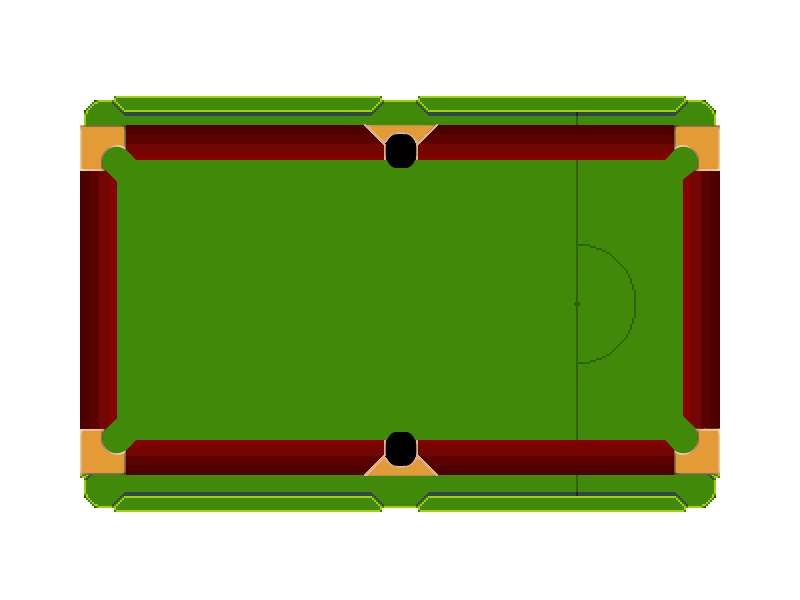
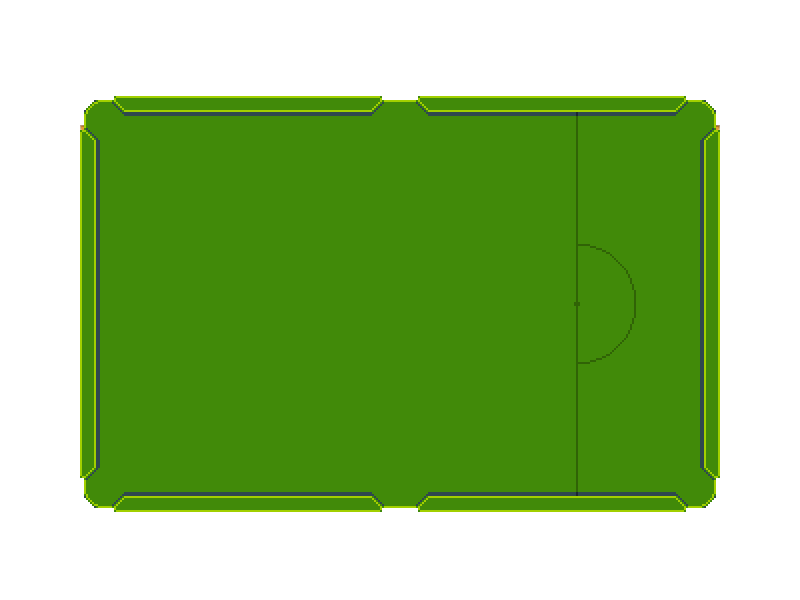
Added tableTwo.png which looks like the Yahoo Pool table. Added physics description in table.json. Got all of it working in gameTwo.html.

Changed region(s): [[0.0938, 0.21, 0.9062, 0.81]]

diff --git a/gameTwo.js b/gameTwo.js
@@ -30,7 +30,7 @@ Pool.Preloader.prototype = {
 
         this.load.bitmapFont('fat-and-tiny');
 
-        this.load.images([ 'logo', 'table', 'cushions', 'cue', 'fill', 'line']);
+        this.load.images([ 'logo', 'tableTwo.fw', 'cue', 'fill', 'line']);
 
         this.load.spritesheet('balls', 'balls.png', 26, 26);
 
@@ -124,13 +124,13 @@ Pool.Game.prototype = {
         this.stage.backgroundColor = 0x001b07;
 
         //  The table
-        this.table = this.add.sprite(400, 300, 'table');
+        this.table = this.add.sprite(400, 300, 'tableTwo.fw');
 
         this.physics.p2.enable(this.table, Pool.showDebug);
 
         this.table.body.static = true;
         this.table.body.clearShapes();
-        this.table.body.loadPolygon('table', 'pool-table-physics-shape');
+        this.table.body.loadPolygon('table', 'tableJson');
 
         this.tableMaterial = this.physics.p2.createMaterial('tableMaterial', this.table.body);
 
@@ -155,7 +155,7 @@ Pool.Game.prototype = {
         this.shadows = this.add.group();
 
         //  The cushions sit above the shadow layer
-        this.add.sprite(0, 0, 'cushions');
+        //this.add.sprite(0, 0, 'cushions');
 
         //  The balls
 

diff --git a/gameTwo.html b/gameTwo.html
@@ -24,7 +24,7 @@
 <script type="text/javascript">
 
     System.import('/lib/phaser.js').then(function(){
-        System.import('game.js');
+        System.import('gameTwo.js');
     });
 
 </script>
